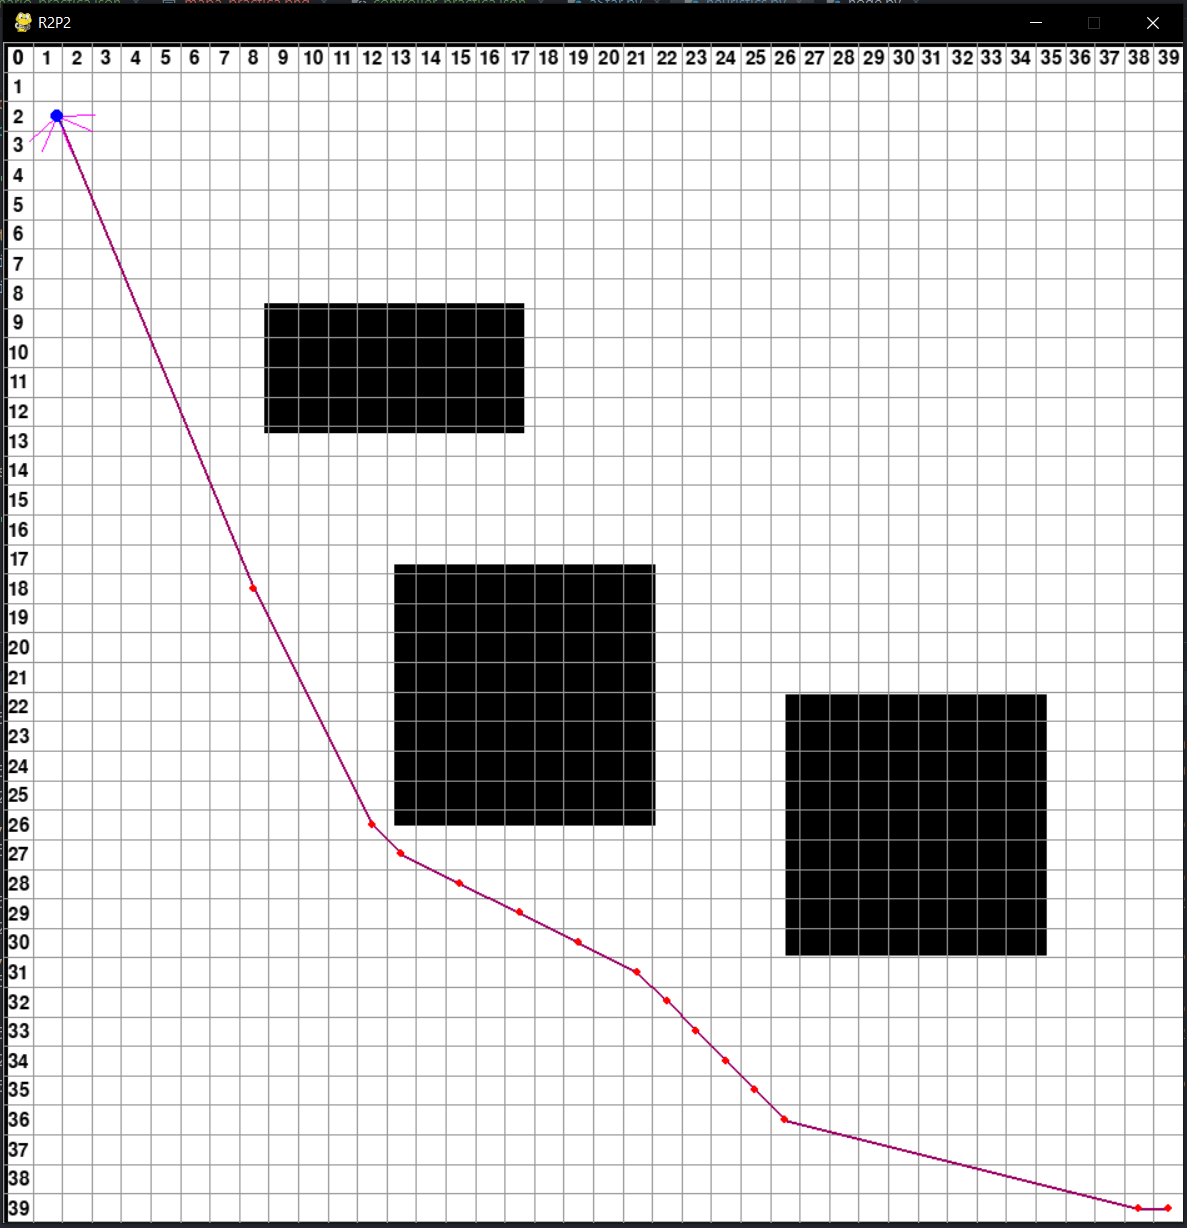
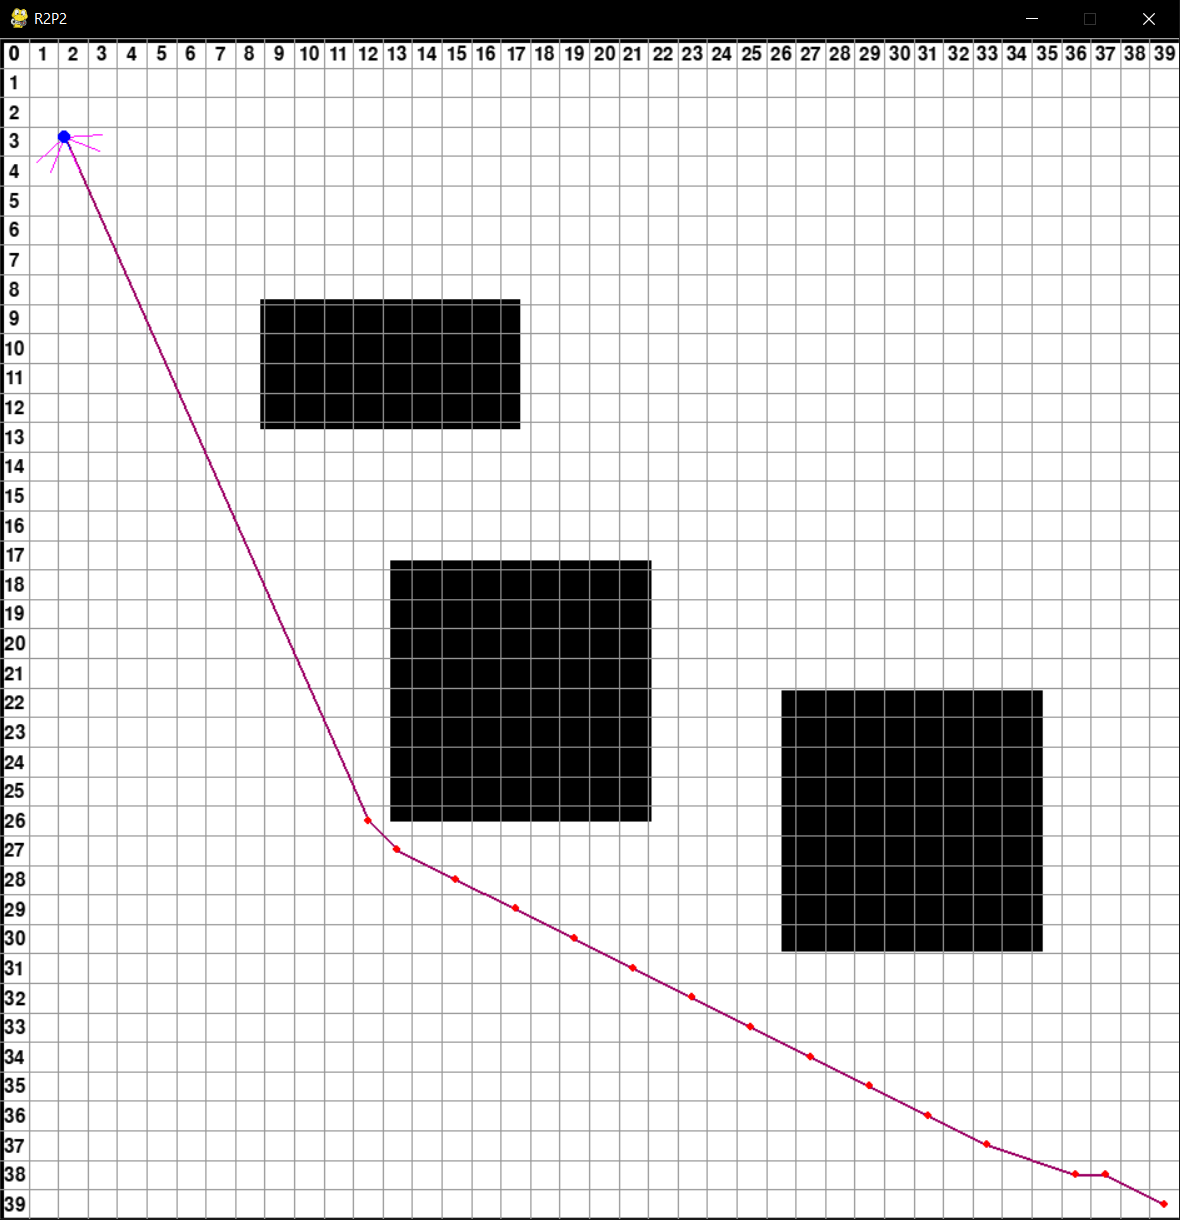
cambios

Changed region(s): [[0.0, 0.0, 1.0, 1.0]]

diff --git a/r2p2/tStar.py b/r2p2/tStar.py
@@ -232,65 +232,26 @@ def tStar_mesh(start, goal, grid, heur='naive'):
 pp.register_search_method('T* mesh', tStar_mesh)
 
 def line_of_sight(current_node, target_node, grid):
-    #              0     1     2     3     4     5     6     7     8     9    10    11    12    13    14    15    16    17    18    19    20    21    22    23    24    25    26    27    28    29    30    31
-    # ----------------------------------------------------------------------------------------------------------------------------------------------------------------------------------------------------------
-    # grid =  [[   0,    0,    0,    0,    0,    0,    0,    0,    0,    0,    0,    0,    0,    0,    0,    0,    0,    0,    0,    0,    0,    0,    0,    0,    0,    0,    0,    0,    0,    0,    0,    0], #  0
-    #          [   0,    0,    0,    0,    0,    0,    0,    0,    0,    0,    0,    0,    0,    0,    0,    0,    0,    0,    0,    0,    0,    0,    0,    0,    0,    0,    0,    0,    0,    0,    0,    0], #  1
-    #          [   0,    0,   84,   84,   84,   84,   84,   84,   84,   84,   84,   84,   84,   84,   84,   84,   84,   84,   84,   84,   84,   84,   84,   84,   84,   84,   84,   84,   84,   84,    0,    0], #  2
-    #          [   0,    0,   84,   84,   84,   84,   84,   84,   84,   84,   84,   84,   84,   84,   84,   84,   84,   84,   84,   84,   84,   84,   84,   84,   84,   84,   84,   84,   84,   84,    0,    0], #  3
-    #          [   0,    0,   84,   84,   84,   84,   84,   84,   84,   84,   84,   84,   84,  255,  255,  255,   84,   84,   84,   84,   84,   84,   84,   84,   84,   84,   84,   84,   84,   84,    0,    0], #  4
-    #          [   0,    0,   84,   84,   84,   84,   84,   84,   84,   84,   84,  255,  255,  255,  255,  255,  255,  255,   84,   84,   84,   84,   84,   84,   84,   84,   84,   84,   84,   84,    0,    0], #  5
-    #          [   0,    0,   84,   84,   84,   84,   84,   84,  255,  255,  255,  255,  255,  255,  255,  255,  255,  255,  255,   84,   84,   84,   84,   84,   84,   84,   84,   84,   84,   84,    0,    0], #  6
-    #          [   0,    0,   84,   84,   84,  255,  255,  255,  255,  255,  255,  255,  255,  255,  255,  255,  255,  255,   84,   84,  255,   84,   84,   84,   84,   84,   84,   84,   84,   84,    0,    0], #  7
-    #          [   0,    0,   84,   84,  255,  255,   91,    0,    0,    0,    0,    0,    0,    0,    0,    0,    0,    0,    0,   84,  255,  255,  255,   84,   84,   84,   84,   84,   84,   84,    0,    0], #  8
-    #          [   0,    0,   84,  255,  255,  255,   91,    0,    0,    0,    0,    0,    0,    0,    0,    0,    0,    0,    0,   84,  255,  255,  255,  255,   84,   84,   84,   84,   84,   84,    0,    0], #  9
-    #          [   0,    0,   84,  255,  255,  255,   91,    0,    0,    0,    0,    0,    0,    0,    0,    0,    0,    0,    0,   84,  255,  255,  255,    0,    0,    0,    0,    0,    0,    0,    0,    0], #  10
-    #          [   0,    0,   84,  255,  255,  255,   91,    0,    0,    0,    0,    0,  255,    0,    0,    0,    0,    0,    0,   84,  255,  255,  255,    0,    0,    0,    0,    0,    0,    0,    0,    0], #  11
-    #          [   0,    0,   84,  255,  255,  255,   91,    0,    0,    0,    0,    0,  255,    0,    0,    0,    0,    0,    0,   84,  255,  255,  255,    0,    0,    0,    0,    0,    0,    0,    0,    0], #  12
-    #          [   0,    0,   84,  255,  255,  255,  255,    0,    0,    0,    0,    0,  255,    0,    0,    0,    0,    0,    0,   84,   84,  255,  255,    0,    0,    0,    0,    0,    0,    0,    0,    0], #  13
-    #          [   0,    0,   84,  255,  255,  255,  255,    0,    0,    0,    0,    0,   43,    0,    0,    0,    0,    0,    0,  255,  255,  255,  255,   84,    0,    0,    0,    0,    0,    0,    0,    0], #  14
-    #          [   0,    0,  255,  255,  255,  255,  255,    0,    0,    0,    0,   43,   43,    0,    0,    0,    0,    0,    0,  255,  255,  255,  255,   84,   84,    0,    0,    0,    0,    0,    0,    0], #  15
-    #          [   0,    0,  255,  255,  255,  255,  255,    0,    0,    0,    0,    0,  255,    0,    0,    0,    0,    0,    0,  255,  255,  255,  255,   84,   84,   84,   84,    0,    0,    0,    0,    0], #  16
-    #          [   0,    0,   84,  255,  255,  255,  255,    0,    0,    0,    0,    0,  255,    0,    0,    0,    0,    0,    0,  255,  255,  255,  255,  255,  255,  255,  255,  255,  255,  255,    0,    0], #  17
-    #          [   0,    0,   84,   84,  255,  255,  255,    0,    0,    0,    0,    0,  255,    0,    0,    0,    0,    0,    0,  255,  255,  255,  255,  255,  255,  255,  255,  255,  255,  255,    0,    0], #  18
-    #          [   0,    0,   84,   84,  255,  255,  255,    0,    0,    0,    0,    0,  255,    0,    0,    0,    0,    0,    0,  255,  255,  255,  255,  255,  255,  255,  255,  255,  255,  255,    0,    0], #  19
-    #          [   0,    0,   84,   84,   84,  255,  255,   91,   91,   91,   91,  255,  255,  255,    0,    0,    0,    0,    0,  255,  255,  255,  255,  255,  255,  255,  255,  255,  255,  255,    0,    0], #  20
-    #          [   0,    0,   84,   84,   84,   84,  255,  255,  255,  255,  255,  255,  255,  255,    0,    0,    0,    0,    0,  255,  255,  255,  255,  255,  255,  255,  255,  255,  255,  255,    0,    0], #  21
-    #          [   0,    0,   84,   84,   84,   84,   84,  255,   16,   16,  255,  255,  255,  255,    0,    0,    0,    0,    0,  255,  255,  255,  255,  255,  255,  255,  255,  255,  255,  255,    0,    0], #  22
-    #          [   0,    0,   84,   84,   84,   84,   84,   16,   16,   16,   16,  255,  255,  255,    0,    0,    0,    0,    0,  255,  255,  255,  255,  255,  255,  255,  255,  255,  255,  255,    0,    0], #  23
-    #          [   0,    0,    0,    0,    0,    0,    0,    0,    0,    0,    0,  255,    0,    0,    0,    0,    0,    0,    0,  255,  255,  255,  255,  255,  255,  255,  255,  255,  255,  255,    0,    0], #  24
-    #          [   0,    0,    0,    0,    0,    0,    0,    0,    0,    0,    0,  255,    0,    0,    0,    0,    0,    0,    0,  255,  255,  255,  255,  255,  255,  255,  255,  255,  255,  255,    0,    0], #  25
-    #          [   0,    0,    0,    0,    0,    0,    0,    0,    0,    0,    0,  255,    0,    0,    0,    0,    0,    0,    0,    0,  255,  255,  255,  255,  255,  255,  255,  255,  255,  255,    0,    0], #  26
-    #          [   0,    0,    0,    0,    0,    0,    0,    0,    0,    0,    0,  255,    0,    0,    0,    0,    0,    0,    0,    0,    0,  255,  255,  255,  255,  255,  255,  255,  255,  255,    0,    0], #  27
-    #          [   0,    0,    0,  255,  255,  255,  255,  255,  255,  255,  255,  255,    0,    0,    0,    0,    0,    0,    0,    0,    0,    0,    0,  255,  255,  255,  255,  255,  255,  255,    0,    0], #  28
-    #          [   0,    0,    0,    0,    0,    0,    0,    0,    0,    0,    0,    0,    0,    0,    0,    0,    0,    0,    0,    0,    0,    0,    0,    0,  255,  255,  255,  255,  255,  255,    0,    0], #  29
-    #          [   0,    0,    0,    0,    0,    0,    0,    0,    0,    0,    0,    0,    0,    0,    0,    0,    0,    0,    0,    0,    0,    0,    0,    0,    0,    0,    0,    0,    0,    0,    0,    0], #  30
-    #          [   0,    0,    0,    0,    0,    0,    0,    0,    0,    0,    0,    0,    0,    0,    0,    0,    0,    0,    0,    0,    0,    0,    0,    0,    0,    0,    0,    0,    0,    0,    0,    0]] #  31
-
-    # x0 = 27
-    # y0 = 19
-    #
-    # x1 = 8
-    # y1 = 20
 
     x0 = current_node.grid_point[0]
     y0 = current_node.grid_point[1]
 
     x1 = target_node.grid_point[0]
     y1 = target_node.grid_point[1]
+
     dx = x1-x0
     dy = y1-y0
 
     f = 0
 
     if dy < 0:
-        dy = abs(dy)
+        dy = -dy
         sy = -1
     else:
         sy =  1
 
     if dx < 0:
-        dx = abs(dx)
+        dx = -dx
         sx = -1
     else:
         sx = 1
@@ -298,33 +259,28 @@ def line_of_sight(current_node, target_node, grid):
     if dx >= dy:
         while x0 != x1:
             f += dy
-            a = y0 + ((sy - 1) // 2)
-            b = x0 + ((sx - 1) // 2)
             if f >= dx:
-                if grid[a][b] == 9:
+                if grid[x0 + (sx - 1) // 2][y0 + (sy - 1) // 2] == 9:
                     return False
                 y0 += sy
                 f  -= dx
-            if f != 0 and grid[a][b].value == 9:
+            if f != 0 and grid[x0 + (sx - 1) // 2][y0 + (sy - 1) // 2].value == 9:
                 return False
-            if f == 0 and grid[y0][b].value == 9 and grid[y0 - 1][b].value == 9:
+            if f == 0 and grid[x0 + (sx - 1) // 2][y0].value == 9 and grid[x0 + (sx - 1) // 2][y0 - 1].value == 9:
                 return False
             x0 += sx
     else:
         while y0 != y1:
             f += dx
-            a = y0 + ((sy - 1) // 2)
-            b = x0 + ((sx - 1) // 2)
             if f >= dy:
-                if grid[a][b].value == 9:
+                if grid[x0 + (sx - 1) // 2][y0 + ((sy - 1) // 2)].value == 9:
                     return False
                 x0 += sx
                 f  -= dy
-            if f != 0 and grid[a][b].value == 9:
+            if f != 0 and grid[x0 + (sx - 1) // 2][y0 + ((sy - 1) // 2)].value == 9:
                 return False
-            if f == 0 and grid[a][x0].value == 9 and grid[a][x0 - 1].value == 9:
+            if f == 0 and grid[x0][y0 + ((sy - 1) // 2)].value == 9 and grid[x0 - 1][y0 + ((sy - 1) // 2)].value == 9:
                 return False
             y0 += sy
     return True
-#
-# print(line_of_sight(1,1,1))
+

diff --git a/Fases PECL3/Path-planning/5/tStar.py b/Fases PECL3/Path-planning/5/tStar.py
@@ -232,65 +232,26 @@ def tStar_mesh(start, goal, grid, heur='naive'):
 pp.register_search_method('T* mesh', tStar_mesh)
 
 def line_of_sight(current_node, target_node, grid):
-    #              0     1     2     3     4     5     6     7     8     9    10    11    12    13    14    15    16    17    18    19    20    21    22    23    24    25    26    27    28    29    30    31
-    # ----------------------------------------------------------------------------------------------------------------------------------------------------------------------------------------------------------
-    # grid =  [[   0,    0,    0,    0,    0,    0,    0,    0,    0,    0,    0,    0,    0,    0,    0,    0,    0,    0,    0,    0,    0,    0,    0,    0,    0,    0,    0,    0,    0,    0,    0,    0], #  0
-    #          [   0,    0,    0,    0,    0,    0,    0,    0,    0,    0,    0,    0,    0,    0,    0,    0,    0,    0,    0,    0,    0,    0,    0,    0,    0,    0,    0,    0,    0,    0,    0,    0], #  1
-    #          [   0,    0,   84,   84,   84,   84,   84,   84,   84,   84,   84,   84,   84,   84,   84,   84,   84,   84,   84,   84,   84,   84,   84,   84,   84,   84,   84,   84,   84,   84,    0,    0], #  2
-    #          [   0,    0,   84,   84,   84,   84,   84,   84,   84,   84,   84,   84,   84,   84,   84,   84,   84,   84,   84,   84,   84,   84,   84,   84,   84,   84,   84,   84,   84,   84,    0,    0], #  3
-    #          [   0,    0,   84,   84,   84,   84,   84,   84,   84,   84,   84,   84,   84,  255,  255,  255,   84,   84,   84,   84,   84,   84,   84,   84,   84,   84,   84,   84,   84,   84,    0,    0], #  4
-    #          [   0,    0,   84,   84,   84,   84,   84,   84,   84,   84,   84,  255,  255,  255,  255,  255,  255,  255,   84,   84,   84,   84,   84,   84,   84,   84,   84,   84,   84,   84,    0,    0], #  5
-    #          [   0,    0,   84,   84,   84,   84,   84,   84,  255,  255,  255,  255,  255,  255,  255,  255,  255,  255,  255,   84,   84,   84,   84,   84,   84,   84,   84,   84,   84,   84,    0,    0], #  6
-    #          [   0,    0,   84,   84,   84,  255,  255,  255,  255,  255,  255,  255,  255,  255,  255,  255,  255,  255,   84,   84,  255,   84,   84,   84,   84,   84,   84,   84,   84,   84,    0,    0], #  7
-    #          [   0,    0,   84,   84,  255,  255,   91,    0,    0,    0,    0,    0,    0,    0,    0,    0,    0,    0,    0,   84,  255,  255,  255,   84,   84,   84,   84,   84,   84,   84,    0,    0], #  8
-    #          [   0,    0,   84,  255,  255,  255,   91,    0,    0,    0,    0,    0,    0,    0,    0,    0,    0,    0,    0,   84,  255,  255,  255,  255,   84,   84,   84,   84,   84,   84,    0,    0], #  9
-    #          [   0,    0,   84,  255,  255,  255,   91,    0,    0,    0,    0,    0,    0,    0,    0,    0,    0,    0,    0,   84,  255,  255,  255,    0,    0,    0,    0,    0,    0,    0,    0,    0], #  10
-    #          [   0,    0,   84,  255,  255,  255,   91,    0,    0,    0,    0,    0,  255,    0,    0,    0,    0,    0,    0,   84,  255,  255,  255,    0,    0,    0,    0,    0,    0,    0,    0,    0], #  11
-    #          [   0,    0,   84,  255,  255,  255,   91,    0,    0,    0,    0,    0,  255,    0,    0,    0,    0,    0,    0,   84,  255,  255,  255,    0,    0,    0,    0,    0,    0,    0,    0,    0], #  12
-    #          [   0,    0,   84,  255,  255,  255,  255,    0,    0,    0,    0,    0,  255,    0,    0,    0,    0,    0,    0,   84,   84,  255,  255,    0,    0,    0,    0,    0,    0,    0,    0,    0], #  13
-    #          [   0,    0,   84,  255,  255,  255,  255,    0,    0,    0,    0,    0,   43,    0,    0,    0,    0,    0,    0,  255,  255,  255,  255,   84,    0,    0,    0,    0,    0,    0,    0,    0], #  14
-    #          [   0,    0,  255,  255,  255,  255,  255,    0,    0,    0,    0,   43,   43,    0,    0,    0,    0,    0,    0,  255,  255,  255,  255,   84,   84,    0,    0,    0,    0,    0,    0,    0], #  15
-    #          [   0,    0,  255,  255,  255,  255,  255,    0,    0,    0,    0,    0,  255,    0,    0,    0,    0,    0,    0,  255,  255,  255,  255,   84,   84,   84,   84,    0,    0,    0,    0,    0], #  16
-    #          [   0,    0,   84,  255,  255,  255,  255,    0,    0,    0,    0,    0,  255,    0,    0,    0,    0,    0,    0,  255,  255,  255,  255,  255,  255,  255,  255,  255,  255,  255,    0,    0], #  17
-    #          [   0,    0,   84,   84,  255,  255,  255,    0,    0,    0,    0,    0,  255,    0,    0,    0,    0,    0,    0,  255,  255,  255,  255,  255,  255,  255,  255,  255,  255,  255,    0,    0], #  18
-    #          [   0,    0,   84,   84,  255,  255,  255,    0,    0,    0,    0,    0,  255,    0,    0,    0,    0,    0,    0,  255,  255,  255,  255,  255,  255,  255,  255,  255,  255,  255,    0,    0], #  19
-    #          [   0,    0,   84,   84,   84,  255,  255,   91,   91,   91,   91,  255,  255,  255,    0,    0,    0,    0,    0,  255,  255,  255,  255,  255,  255,  255,  255,  255,  255,  255,    0,    0], #  20
-    #          [   0,    0,   84,   84,   84,   84,  255,  255,  255,  255,  255,  255,  255,  255,    0,    0,    0,    0,    0,  255,  255,  255,  255,  255,  255,  255,  255,  255,  255,  255,    0,    0], #  21
-    #          [   0,    0,   84,   84,   84,   84,   84,  255,   16,   16,  255,  255,  255,  255,    0,    0,    0,    0,    0,  255,  255,  255,  255,  255,  255,  255,  255,  255,  255,  255,    0,    0], #  22
-    #          [   0,    0,   84,   84,   84,   84,   84,   16,   16,   16,   16,  255,  255,  255,    0,    0,    0,    0,    0,  255,  255,  255,  255,  255,  255,  255,  255,  255,  255,  255,    0,    0], #  23
-    #          [   0,    0,    0,    0,    0,    0,    0,    0,    0,    0,    0,  255,    0,    0,    0,    0,    0,    0,    0,  255,  255,  255,  255,  255,  255,  255,  255,  255,  255,  255,    0,    0], #  24
-    #          [   0,    0,    0,    0,    0,    0,    0,    0,    0,    0,    0,  255,    0,    0,    0,    0,    0,    0,    0,  255,  255,  255,  255,  255,  255,  255,  255,  255,  255,  255,    0,    0], #  25
-    #          [   0,    0,    0,    0,    0,    0,    0,    0,    0,    0,    0,  255,    0,    0,    0,    0,    0,    0,    0,    0,  255,  255,  255,  255,  255,  255,  255,  255,  255,  255,    0,    0], #  26
-    #          [   0,    0,    0,    0,    0,    0,    0,    0,    0,    0,    0,  255,    0,    0,    0,    0,    0,    0,    0,    0,    0,  255,  255,  255,  255,  255,  255,  255,  255,  255,    0,    0], #  27
-    #          [   0,    0,    0,  255,  255,  255,  255,  255,  255,  255,  255,  255,    0,    0,    0,    0,    0,    0,    0,    0,    0,    0,    0,  255,  255,  255,  255,  255,  255,  255,    0,    0], #  28
-    #          [   0,    0,    0,    0,    0,    0,    0,    0,    0,    0,    0,    0,    0,    0,    0,    0,    0,    0,    0,    0,    0,    0,    0,    0,  255,  255,  255,  255,  255,  255,    0,    0], #  29
-    #          [   0,    0,    0,    0,    0,    0,    0,    0,    0,    0,    0,    0,    0,    0,    0,    0,    0,    0,    0,    0,    0,    0,    0,    0,    0,    0,    0,    0,    0,    0,    0,    0], #  30
-    #          [   0,    0,    0,    0,    0,    0,    0,    0,    0,    0,    0,    0,    0,    0,    0,    0,    0,    0,    0,    0,    0,    0,    0,    0,    0,    0,    0,    0,    0,    0,    0,    0]] #  31
-
-    # x0 = 27
-    # y0 = 19
-    #
-    # x1 = 8
-    # y1 = 20
 
     x0 = current_node.grid_point[0]
     y0 = current_node.grid_point[1]
 
     x1 = target_node.grid_point[0]
     y1 = target_node.grid_point[1]
+
     dx = x1-x0
     dy = y1-y0
 
     f = 0
 
     if dy < 0:
-        dy = abs(dy)
+        dy = -dy
         sy = -1
     else:
         sy =  1
 
     if dx < 0:
-        dx = abs(dx)
+        dx = -dx
         sx = -1
     else:
         sx = 1
@@ -298,33 +259,27 @@ def line_of_sight(current_node, target_node, grid):
     if dx >= dy:
         while x0 != x1:
             f += dy
-            a = y0 + ((sy - 1) // 2)
-            b = x0 + ((sx - 1) // 2)
             if f >= dx:
-                if grid[a][b] == 9:
+                if grid[x0 + (sx - 1) // 2][y0 + (sy - 1) // 2] == 9:
                     return False
                 y0 += sy
                 f  -= dx
-            if f != 0 and grid[a][b].value == 9:
+            if f != 0 and grid[x0 + (sx - 1) // 2][y0 + (sy - 1) // 2].value == 9:
                 return False
-            if f == 0 and grid[y0][b].value == 9 and grid[y0 - 1][b].value == 9:
+            if f == 0 and grid[x0 + (sx - 1) // 2][y0].value == 9 and grid[x0 + (sx - 1) // 2][y0 - 1].value == 9:
                 return False
             x0 += sx
     else:
         while y0 != y1:
             f += dx
-            a = y0 + ((sy - 1) // 2)
-            b = x0 + ((sx - 1) // 2)
             if f >= dy:
-                if grid[a][b].value == 9:
+                if grid[x0 + (sx - 1) // 2][y0 + ((sy - 1) // 2)].value == 9:
                     return False
                 x0 += sx
                 f  -= dy
-            if f != 0 and grid[a][b].value == 9:
+            if f != 0 and grid[x0 + (sx - 1) // 2][y0 + ((sy - 1) // 2)].value == 9:
                 return False
-            if f == 0 and grid[a][x0].value == 9 and grid[a][x0 - 1].value == 9:
+            if f == 0 and grid[x0][y0 + ((sy - 1) // 2)].value == 9 and grid[x0 - 1][y0 + ((sy - 1) // 2)].value == 9:
                 return False
             y0 += sy
     return True
-#
-# print(line_of_sight(1,1,1))
